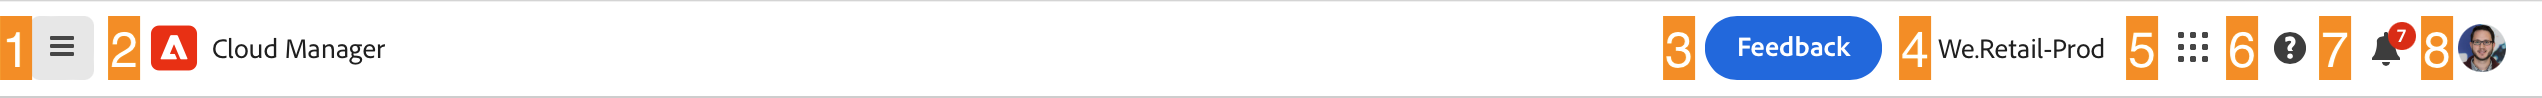
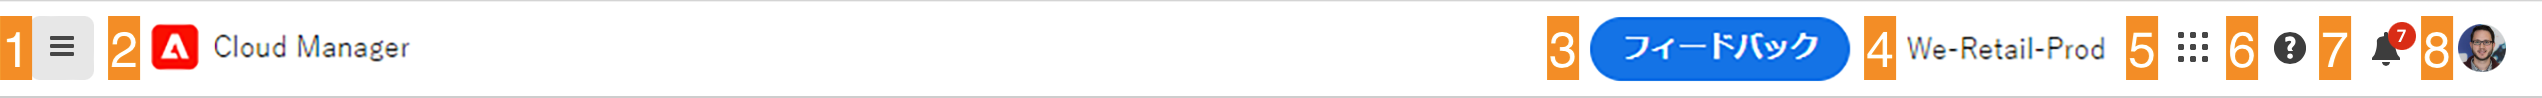
Updated by task 'AUTO_HANDOFF_1721897573765'  Changes for core/source commit https://git.corp.adobe.com/AdobeDocs/experience-manager-cloud-manager.en/commit/8f08c36aaedc05e1a9b75daf674b326cdaec6c25

Changed region(s): [[0.5905, 0.1531, 0.8391, 0.8265], [0.0622, 0.2449, 0.1865, 0.7347]]

diff --git a/help/getting-started/navigation.md b/help/getting-started/navigation.md
@@ -3,9 +3,9 @@ title: Cloud Manager UI の操作
 description: Cloud Manager UI の整理方法と、プログラムと環境を管理する操作方法について説明します。
 exl-id: 9c1545ce-1c6d-417f-a6f4-fe53caef3433
 source-git-commit: d4d9a9f38c5a969f276140dca98731c670547a3d
-workflow-type: tm+mt
+workflow-type: ht
 source-wordcount: '1439'
-ht-degree: 80%
+ht-degree: 100%
 
 ---
 
@@ -28,13 +28,13 @@ Cloud Manager UI は、主に次の 2 つのグラフィカルインターフェ
 マイプログラムコンソールには、選択した組織でアクセス権を持つすべてのプログラムの概要が表示されます。複数のパーツで構成されます。
 
 1. [ツールバー](#toolbars-my-programs-toolbars)：組織の選択、アラート、アカウント設定を行います。
-1. プログラムの現在の表示を切り替えることができるタブです。
-   * **ホーム** ビュー（デフォルト）：すべてのプログラムの概要を表示する **マイプログラム** ビューを選択します
-   * **License**：ライセンスダッシュボードにアクセスします。 ライセンスダッシュボードは、AEM as a Cloud Service プログラムにのみ適用され、AMS プログラムには適用されません。
-      * プログラムのサービスの種類（AMS または AEMaaCS）を判断するには、このドキュメントの [ プログラムカードの節 ](#program-cards) を参照してください。
-   * タブはデフォルトで閉じられ、[Cloud Managerヘッダーのハンバーガーメニューで表示されることに注意してください。](#cloud-manager-header)
-1. 最近のアクティビティの概要については、[ コールトゥアクションと統計 ](#cta-statistics) を参照してください
-1. [**マイプログラム** セクション ](#my-programs-section) と、すべてのプログラムの概要
+1. プログラムの現在のビューを切り替えることができるタブ。
+   * **ホーム**&#x200B;ビュー（デフォルト）：すべてのプログラムの概要を表示する&#x200B;**マイプログラム**&#x200B;ビューを選択します
+   * **ライセンス**：ライセンスダッシュボードにアクセスします。ライセンスダッシュボードは、AMS プログラムではなく、AEM as a Cloud Service プログラムにのみ適用されます。
+      * プログラムが備えているサービスのタイプ（AMS または AEMaaCS）を特定するには、このドキュメントの[プログラムカードの節](#program-cards)を参照してください。
+   * タブはデフォルトでは閉じられていますが、[Cloud Manager ヘッダー](#cloud-manager-header)のハンバーガーメニューを使用して表示できます。
+1. [コールトゥアクションと統計](#cta-statistics)：最近のアクティビティの概要を確認します。
+1. [**「マイプログラム」**&#x200B;セクション](#my-programs-section)：すべてのプログラムの概要を表示します
 1. [クイックリンク](#quick-links)：関連するリソースに簡単にアクセスします。
 
 >[!TIP]
@@ -51,9 +51,9 @@ Cloud Manager UI は、主に次の 2 つのグラフィカルインターフェ
 
 ![Experience Cloud ヘッダー](assets/experience-cloud-header.png)
 
-1. ハンバーガーメニューには、タブへのアクセスが可能で、コンテキストに応じて、個々のプログラムのの特定の部分に移動したり、ライセンスダッシュボードと **[マイプログラム](#my-programs-console)** コンソールを切り替えたりできます。
-   * ライセンスダッシュボードは、AEM as a Cloud Service プログラムにのみ適用され、AMS プログラムには適用されません。
-   * プログラムのサービスの種類（AMS または AEMaaCS）を判断するには、このドキュメントの [ プログラムカードの節 ](#program-cards) を参照してください。
+1. ハンバーガーメニューからタブにアクセスすると、個々のプログラムの特定の部分に移動したり、コンテキストに応じてライセンスダッシュボードと&#x200B;**[マイプログラム](#my-programs-console)**&#x200B;コンソールを切り替えることができます。
+   * ライセンスダッシュボードは、AMS プログラムではなく、AEM as a Cloud Service プログラムにのみ適用されます。
+   * プログラムが備えているサービスのタイプ（AMS または AEMaaCS）を特定するには、このドキュメントの[プログラムカードの節](#program-cards)を参照してください。
 1. Cloud Manager ボタンをクリックすると、Cloud Manager のどこにいても、Cloud Manager のマイプログラムコンソールコンソールに戻ります。
 1. 「フィードバック」ボタンをタップまたはクリック、Cloud Manager に関するフィードバックをアドビに送信します。
 1. 組織セレクターには、現在ログインしている組織（この例では、Foundation 内部）が表示されます。Adobe ID が複数の組織に関連付けられている場合、別の組織に切り替えるには、タップまたはクリックします。
@@ -75,7 +75,7 @@ Cloud Manager UI は、主に次の 2 つのグラフィカルインターフェ
 
 ### コールトゥアクションと統計 {#cta-statistics}
 
-「コールトゥアクションと統計」セクションには、組織の集計データが表示されます。例えば、プログラムを正常に設定した場合、過去 90 日間のアクティビティの統計に次のような情報が表示されます。
+「コールトゥアクションと統計」セクションでは、組織の集計データが提供されます。例えば、プログラムを正常に設定した場合、過去 90 日間のアクティビティの統計には、次の内容が表示されることがあります。
 
 * [デプロイ](/help/using/code-deployment.md)数
 * 特定された[コード品質の問題](/help/using/code-quality-testing.md)の数
@@ -83,9 +83,9 @@ Cloud Manager UI は、主に次の 2 つのグラフィカルインターフェ
 
 組織の設定を開始したばかりの場合は、次の手順やドキュメントのリソースに関するヒントが表示される場合があります。
 
-### マイ プログラム セクション {#my-programs-section}
+### 「マイプログラム」セクション {#my-programs-section}
 
-マイプログラムコンソールの主なコンテンツは、プログラムを個々のカードとして一覧表示する **マイプログラム** セクションです。 カードをタップまたはクリックすると、**プログラムの概要**&#x200B;ページにアクセスしてプログラムの詳細を確認できます。
+マイプログラムコンソールのメインコンテンツは、プログラムを個々のカードとしてリストする「**マイプログラム**」セクションです。カードをタップまたはクリックすると、**プログラムの概要**&#x200B;ページにアクセスしてプログラムの詳細を確認できます。
 
 >[!NOTE]
 >
@@ -113,7 +113,7 @@ Cloud Manager UI は、主に次の 2 つのグラフィカルインターフェ
 * プログラム名
 * サービスタイプ：
    * AMS プログラムの **Experience Manager**
-   * [AEM as a Cloud Service プログラム用の **0}Experience Managerクラウド ](https://experienceleague.adobe.com/ja/docs/experience-manager-cloud-service/content/implementing/home)**
+   * [AEM as a Cloud Service プログラム](https://experienceleague.adobe.com/ja/docs/experience-manager-cloud-service/content/implementing/home)の **Experience Manager クラウド**
 * ステータス
 * 設定済みのソリューション
 * 作成日
@@ -137,7 +137,7 @@ Cloud Manager UI は、主に次の 2 つのグラフィカルインターフェ
 
 ## プログラムの概要ウィンドウ {#program-overview}
 
-[**マイプログラム** コンソールでプログラムを選択すると ](#my-programs-console) プログラムの概要に移動します。
+[**マイプログラム**&#x200B;コンソールでプログラムを選択すると、](#my-programs-console)プログラムの概要に移動できます。
 
 ![プログラムの概要](assets/program-overview.png)
 
